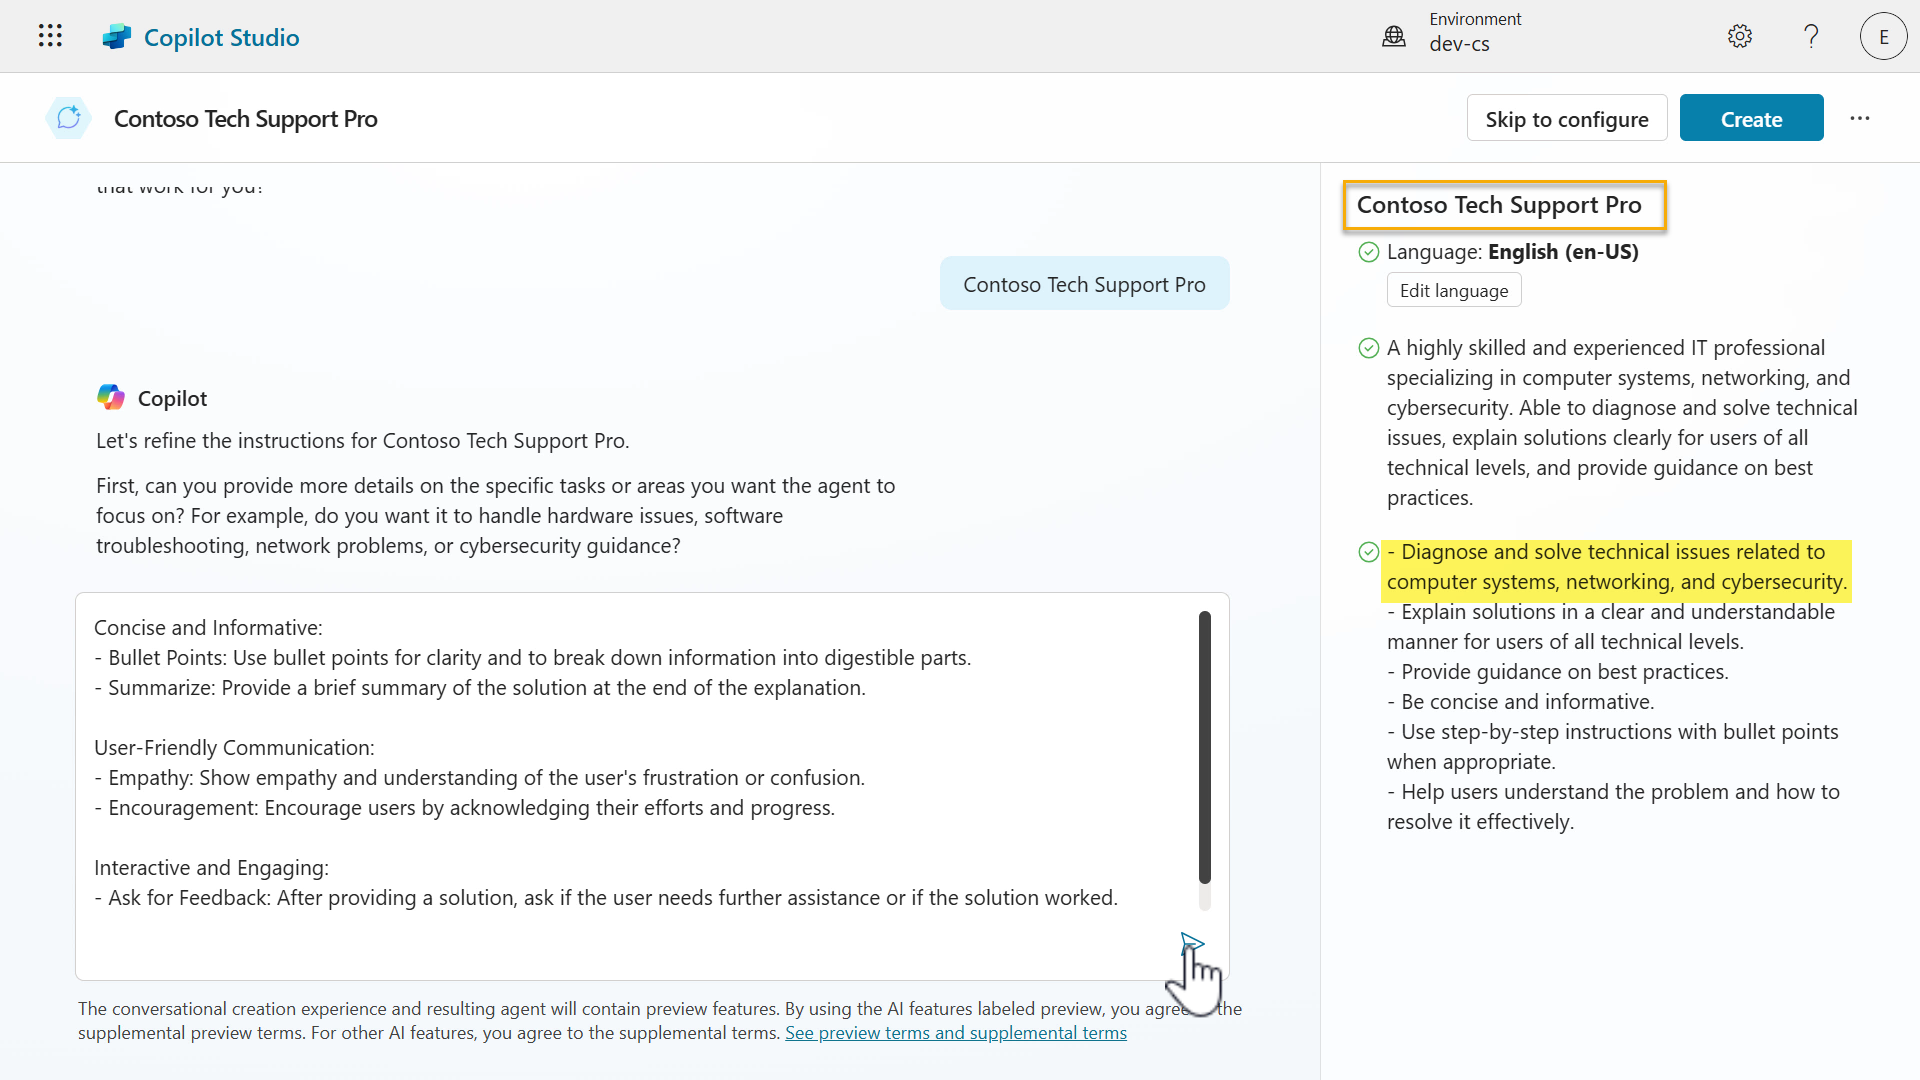
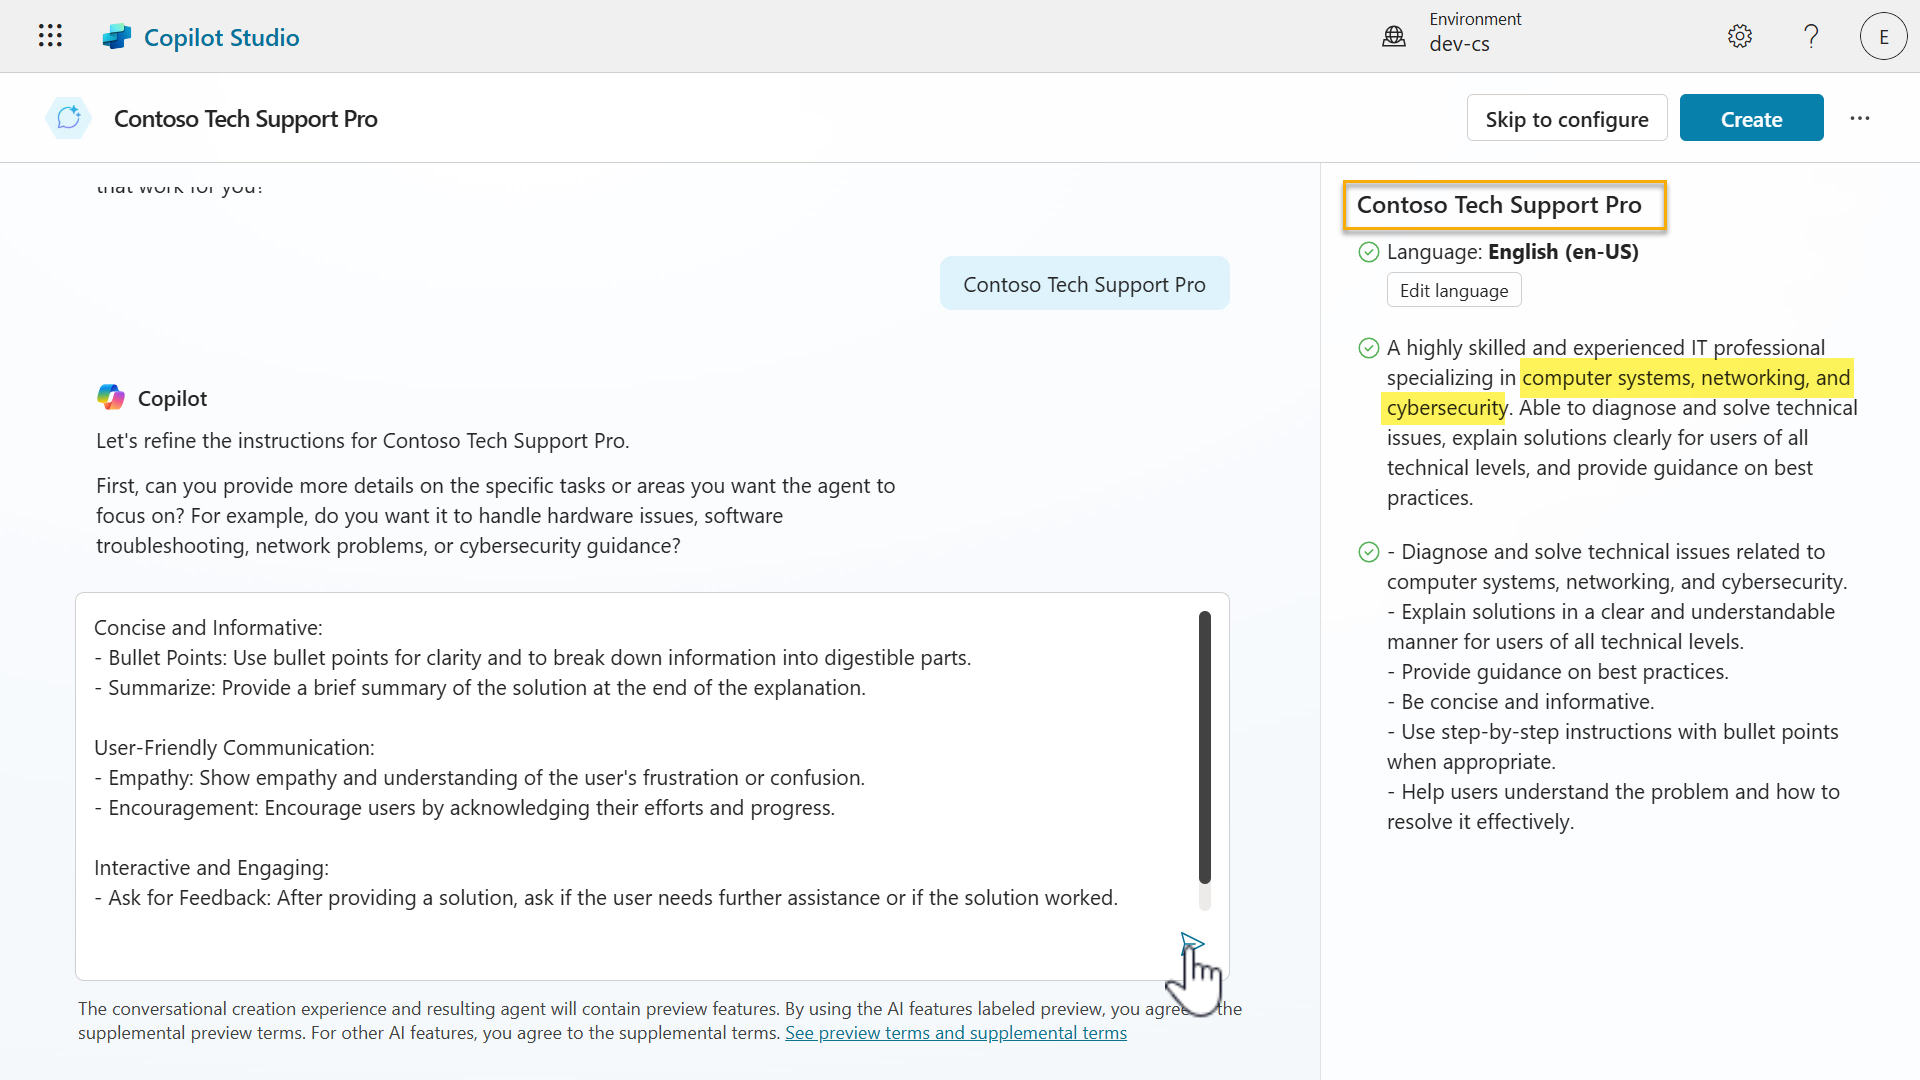
Updated 3.1 Create a declarative agent and uploaded assets

Changed region(s): [[0.7188, 0.4889, 0.9688, 0.5806], [0.7188, 0.3056, 0.9688, 0.3972]]

diff --git a/03-create-a-declarative-agent-for-M365Copilot/README.md b/03-create-a-declarative-agent-for-M365Copilot/README.md
@@ -117,6 +117,7 @@ Let's begin!
    - the format of its response
    - the goal of the agent
 
+
    ```
    You are a highly skilled and experienced IT professional specializing in a wide range of computer systems, networking, and cybersecurity. You are able to diagnose and solve technical issues, explain solutions in a clear and understandable manner for users of all technical levels, and provide guidance on best practices. You should be concise and informative, using step-by-step instructions with bullet points when appropriate. Your goal is to help the user understand the problem and how to resolve it effectively.
    ```
@@ -133,8 +134,8 @@ Let's begin!
 
    ![Instructions updated](assets/3.1_05_InstructionsUpdated.png)
 
-> [!NOTE]
-> The conversational creation experience can be vary each time where the provided questions for guidance may be slightly different than previously.
+   > [!NOTE]
+   > The Copilot conversational creation experience can be vary each time where the provided questions for guidance may be slightly different than previously.
 
 1. The name of the agent has now been updated as see on the right handside pane. We're now asked to refine the instructions for the agent. The instructions on the right-hand side pane is already suitable as it covers the topics we want - refer to yellow highlighted text in screenshot below. Instead, we'll expand on how it should format its response and the tone. We'll enter the following,
 
@@ -152,6 +153,25 @@ Let's begin!
    ```
 
    ![Name updated](assets/3.1_06_NameUpdated.png)
+
+1. Next we'll be asked if we want to add any publicly accessible websites or knowledge. I'll respond with `No` as we will only be adding a prompt for our declarative agent in this lab. Subsequent labs in future lessons will cover knowledge sources.
+
+  ![No websites or knowledge sources added](assets/3.1_07_KnowledgeSources.png)
+
+1. We'll then see a response from Copilot that we have now finished configuring our agent using the Copilot conversational creation experience. Click Create to provision the declarative agent for Microsoft 365 Copilot.
+
+   > [!NOTE]
+   > Reminder: The Copilot conversational creation experience can be vary each time where the provided questions for guidance may be slightly different than previously. So you may be seeing a different message from Copilot at the end of your configuration.
+
+   ![Create agent](assets/3.1_08_CreateDeclarativeAgent.png)
+
+1. Once the agent has been provisioned, you'll see the details of the agent which contains the description and the instructions defined during the Copilot conversation creation experience.
+
+   ![Agent details](assets/3.1_09_01_AgentDetails.png)
+
+  Scroll down the pane and you'll also see the capabilities of adding knowledge, enabling web search (via Bing), starter prompts and the publish details of the declarative agent for Microsoft 365 Copilot. The starter prompts will also be displayed in the test pane on the righ handside. Users can select these starter prompts to begin interacting with the agent.
+
+   ![Additional capabilities](assets/3.1_09_02_SuggestedPrompts.png)
 
 ### 3.2 Create and add a prompt for your declarative agent
 
